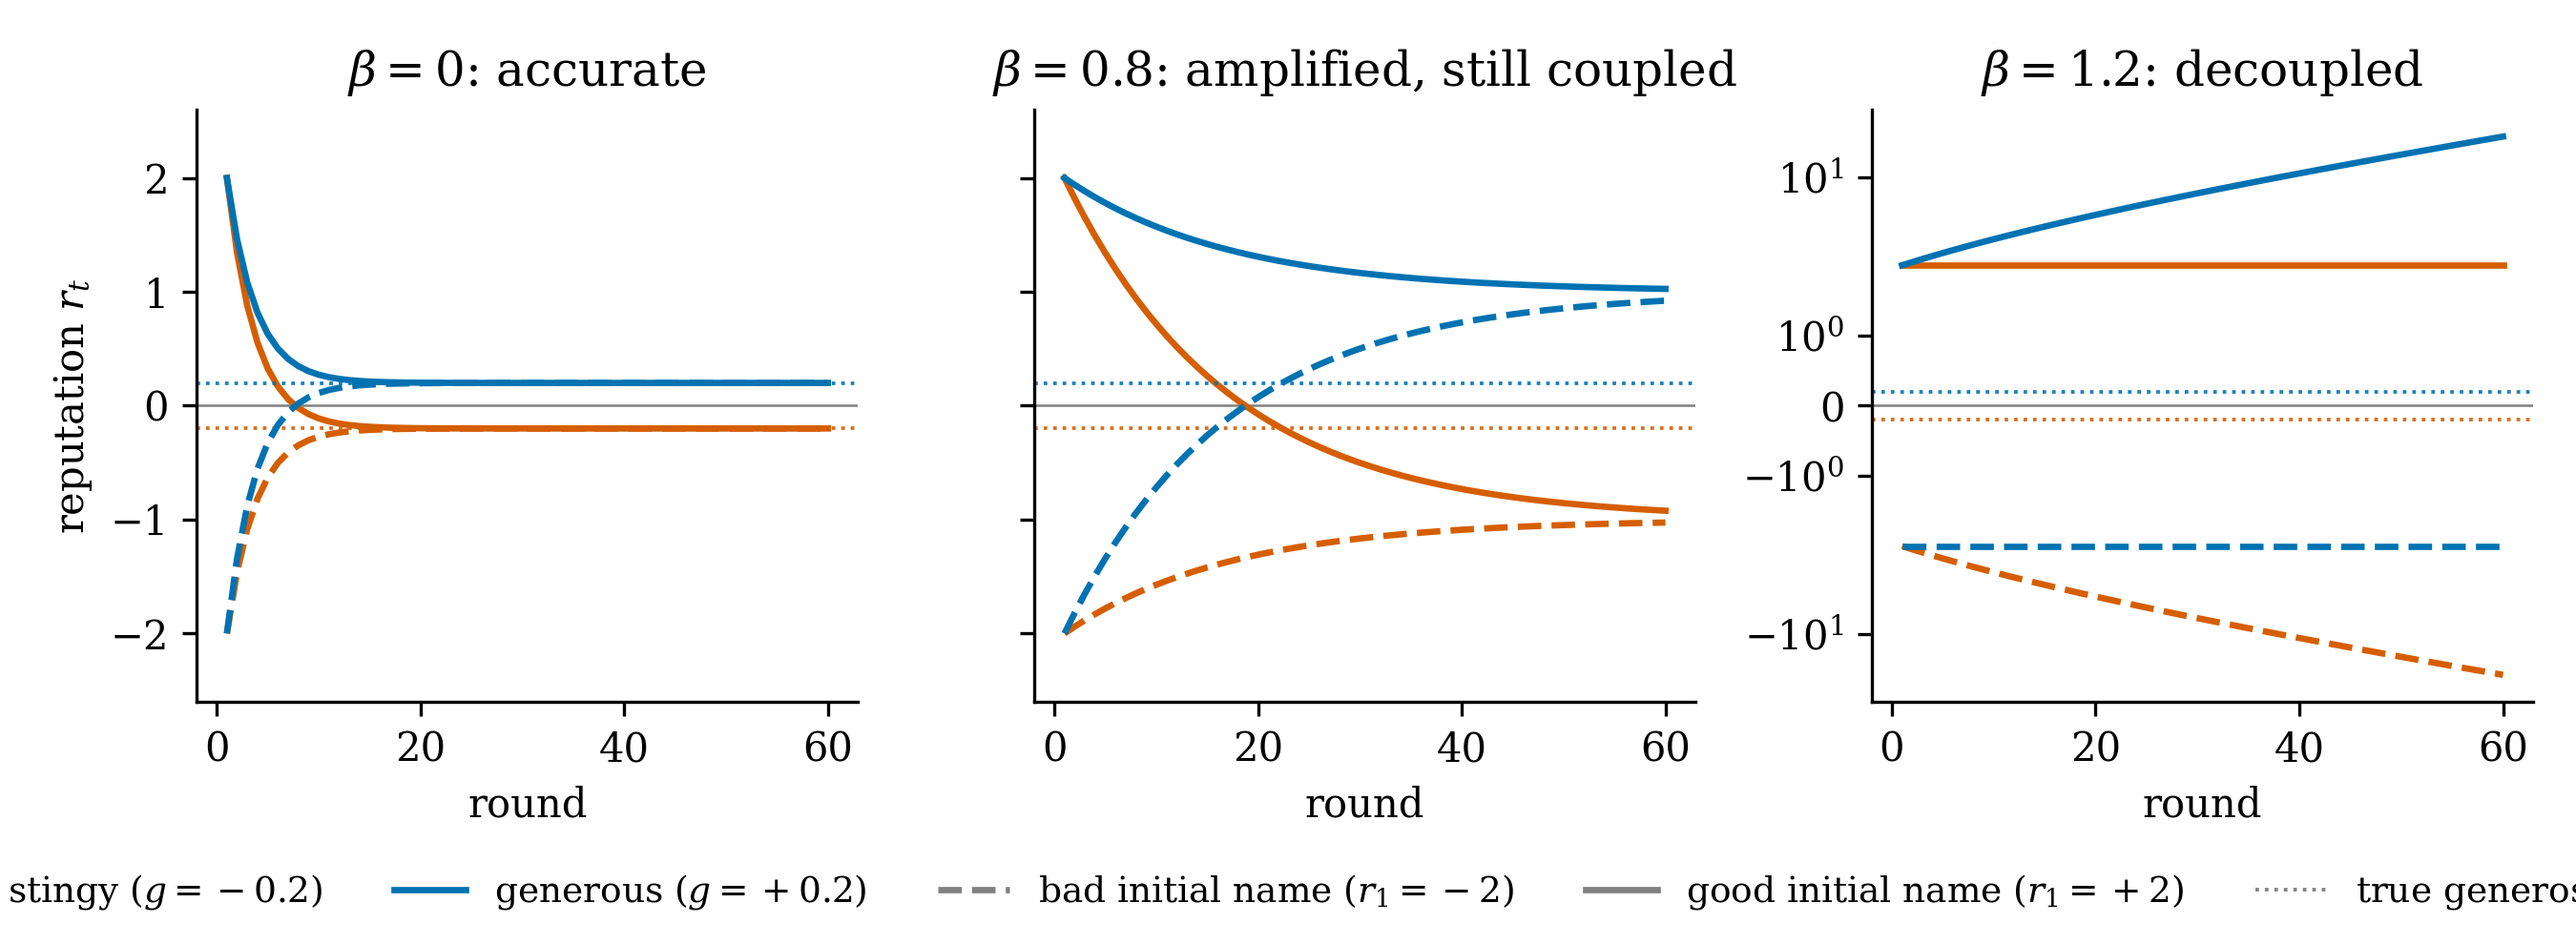
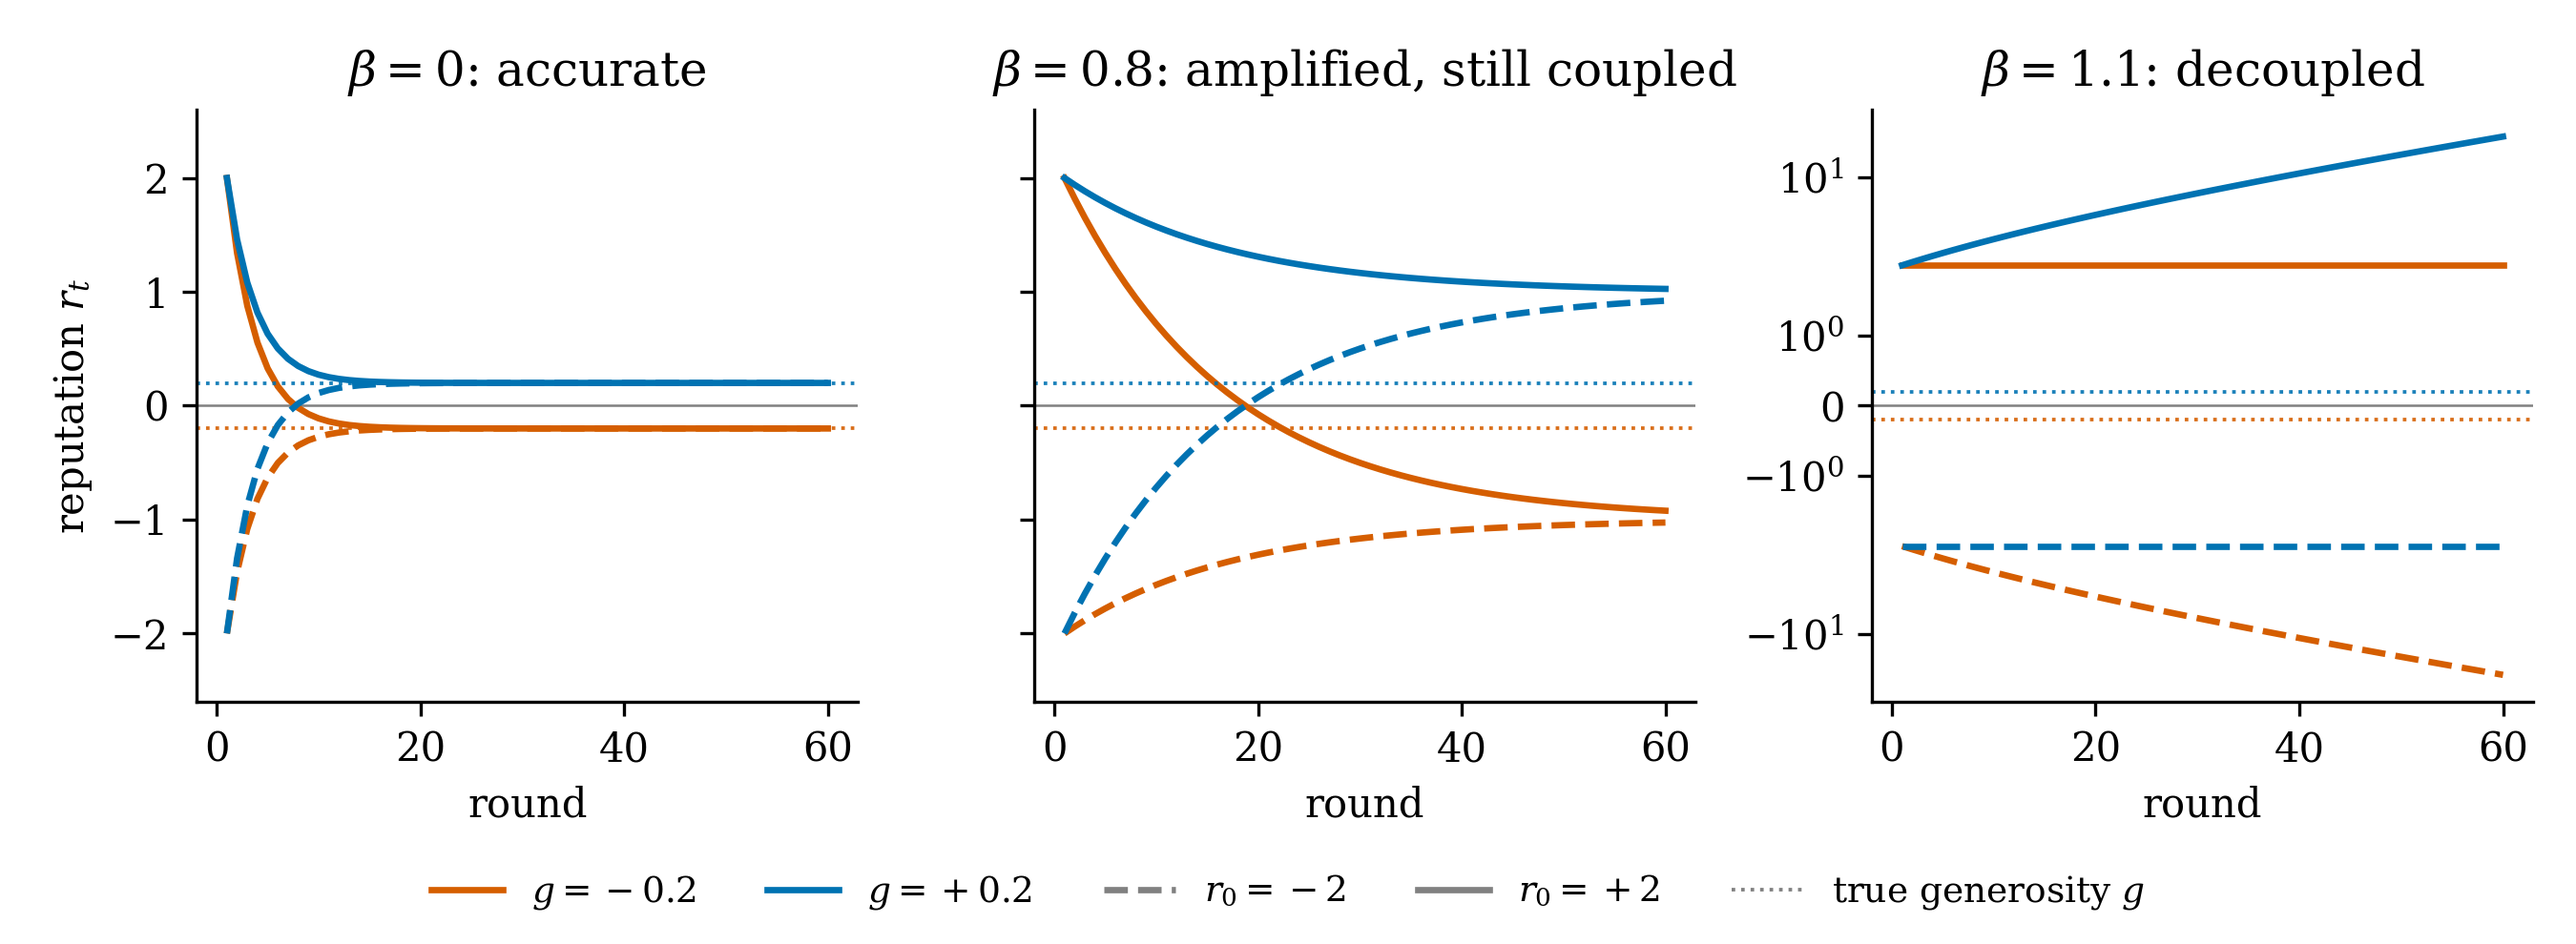
bla

diff --git a/fig1_dynamics.py b/fig1_dynamics.py
@@ -45,8 +45,8 @@ for ax, beta, title in zip(axes, betas, titles):
 axes[0].set_ylabel("reputation $r_t$"); axes[0].set_ylim(-2.6, 2.6)
 axes[1].tick_params(labelleft=False)
 
-handles = [Line2D([], [], color=c, lw=1.6, label=("generous" if g > 0 else "stingy") + f" ($g={g:+}$)") for g, c in gs.items()] + \
-          [Line2D([], [], color="gray", ls=ls, lw=1.6, label=("good" if r1 > 0 else "bad") + f" initial name ($r_1={r1:+g}$)") for r1, ls in r1s.items()] + \
+handles = [Line2D([], [], color=c, lw=1.6, label= f"$g={g:+}$") for g, c in gs.items()] + \
+          [Line2D([], [], color="gray", ls=ls, lw=1.6, label= f"$r_0={r1:+g}$") for r1, ls in r1s.items()] + \
           [Line2D([], [], color="gray", ls=":", lw=0.9, label="true generosity $g$")]
 fig.legend(handles=handles, frameon=False, fontsize=9, ncol=5, loc="lower center", bbox_to_anchor=(0.5, 0.0))
 fig.tight_layout(rect=(0, 0.08, 1, 1))
